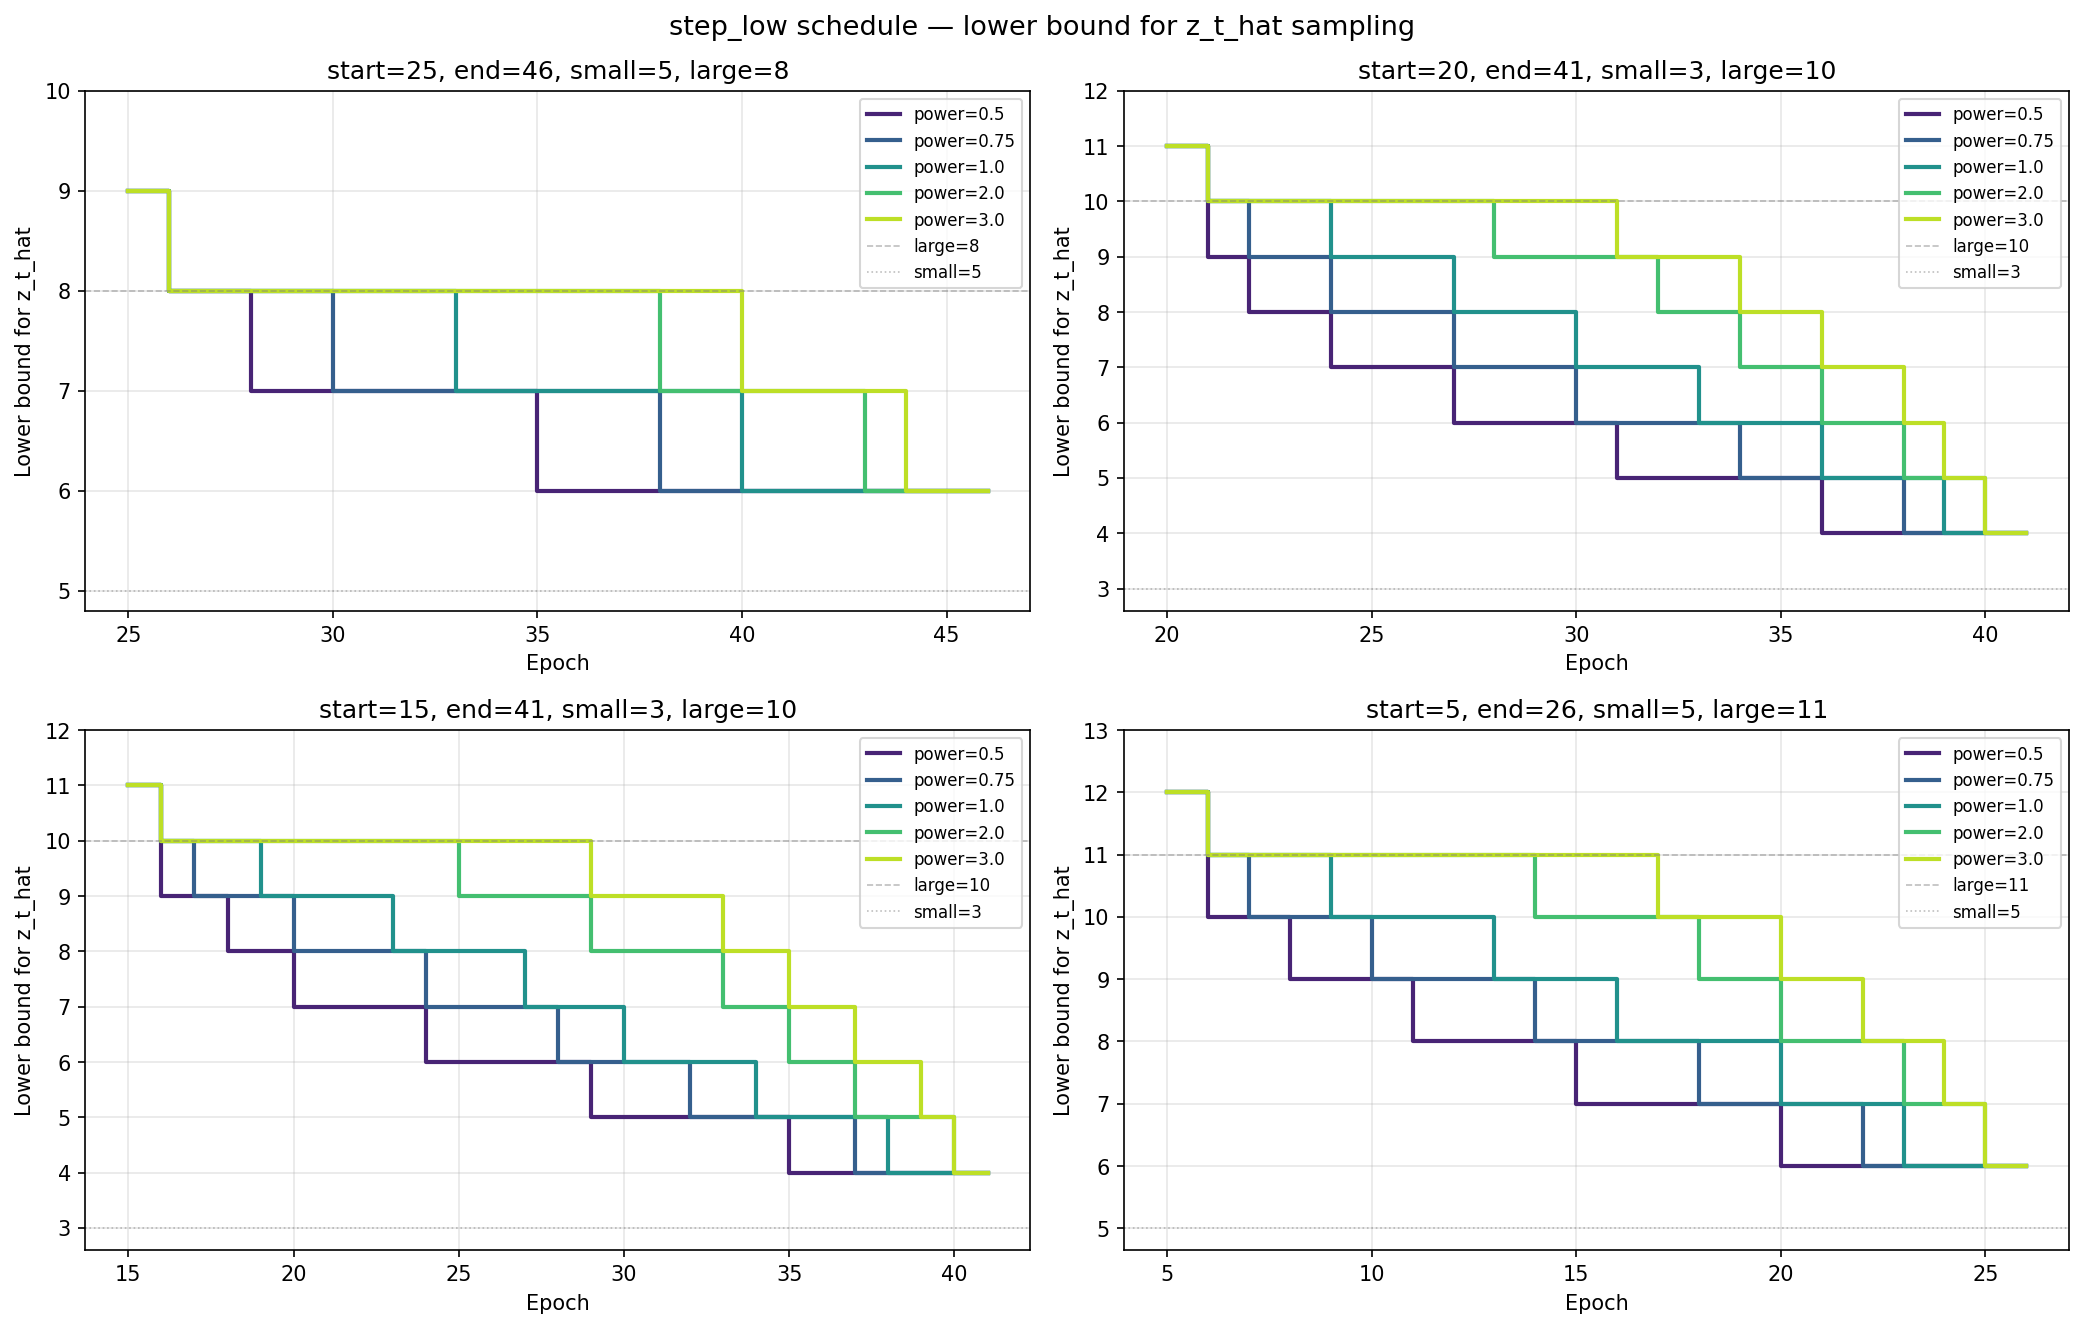
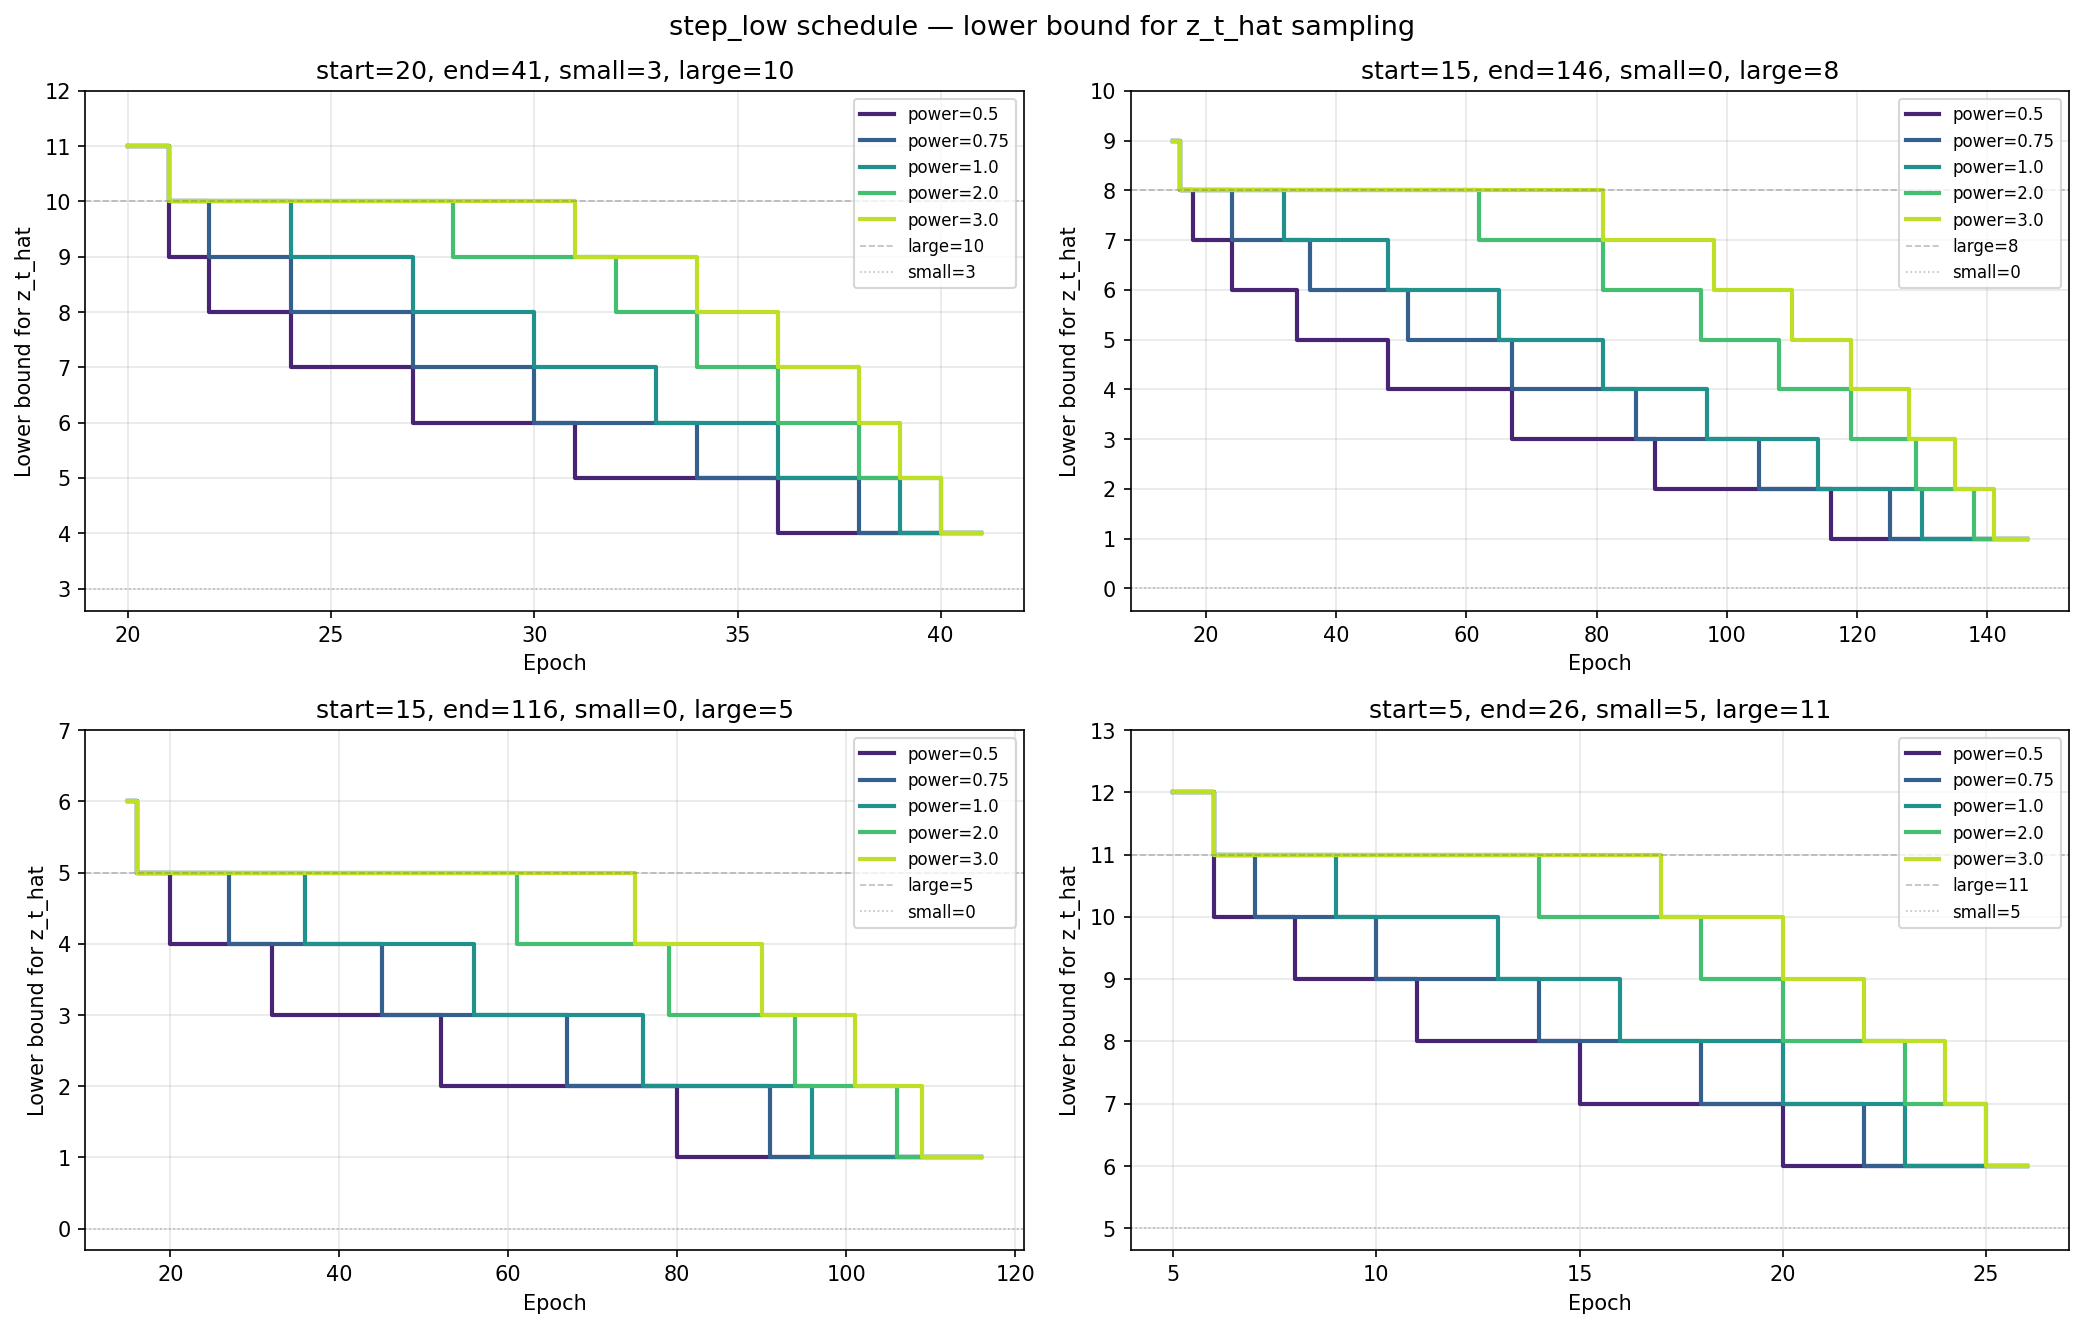
Revert to sampling per batch Allow clamp control during training Raise inference time sampling bound to max(0, int(t)-1)

diff --git a/train_dmd.py b/train_dmd.py
@@ -100,7 +100,7 @@ def train_epoch(args, loader, epoch, mu_real, G, G_ema, G_dp, mu_fake, discrimin
             else :
                 z_t_hat = torch.randint(step_low(args.start_epoch, epoch, 
                                         args.n_epochs, args.step_num_small, 
-                                        args.step_num_large, args.step_num_pow), step_num, (bs_data,))
+                                        args.step_num_large, args.step_num_pow), step_num, (1,)).item()
             
             if args.t_coupling and z_t_hat <= args.step_num_large - 1 :
                 noise_t[noise_t < args.t_coupling_coeff] = args.t_coupling_coeff
@@ -127,7 +127,7 @@ def train_epoch(args, loader, epoch, mu_real, G, G_ema, G_dp, mu_fake, discrimin
             # in one forward pass (z0=z_fake_e_d recovers the noise used by corrupt()).
             L_fake_diffusion = mu_fake.score(noise_t, z_fake_t_d, bs_data, n_data,
                                                    node_mask, edge_mask, context, z_fake_e_d)
-            L_fake_diffusion = soft_clamp(L_fake_diffusion)
+
             logit_D_fake = discriminator._forward(node_mask, edge_mask)     # log D(fake) [B]
 
             # mu_fake forward on real x_t → hook captures real bottleneck features
@@ -139,14 +139,16 @@ def train_epoch(args, loader, epoch, mu_real, G, G_ema, G_dp, mu_fake, discrimin
             L_disc = F.softplus(-logit_D_real).mean() \
                     + F.softplus(logit_D_fake).mean()
             
-            L_disc = soft_clamp(L_disc, 5)
-            L_fake_diffusion = soft_clamp(L_fake_diffusion, 5)
+
+            if args.clamp :
+                L_fake_diffusion = soft_clamp(L_fake_diffusion)
+                L_disc = soft_clamp(L_disc, 5)
 
             L_fake = L_fake_diffusion + gan_coefff * L_disc
 
-            if torch.isnan(L_fake) or torch.isinf(L_fake) or L_fake >= args.skip_bound:
-                print(f'Warning: L_fake is {L_fake.item()}, skipping mu_fake update at iter {i}.')
-                continue
+            # if torch.isnan(L_fake) or torch.isinf(L_fake) or L_fake >= args.skip_bound:
+            #     print(f'Warning: L_fake is {L_fake.item()}, skipping mu_fake update at iter {i}.')
+            #     continue
 
             optim_fake.zero_grad()
             optim_d.zero_grad()

diff --git a/schedule.py b/schedule.py
@@ -34,12 +34,12 @@ def plot_schedule(ax, start_epoch, total_epoch, step_num_small, step_num_large, 
 
 # ── Configurations ────────────────────────────────────────────────────────────
 configs = [
-    dict(start_epoch=25, total_epoch=46, step_num_small=5, step_num_large=8,
-         title='start=25, end=46, small=5, large=8'),
-    dict(start_epoch=20,  total_epoch=41, step_num_small=3, step_num_large=10,
+    dict(start_epoch=20, total_epoch=41, step_num_small=3, step_num_large=10,
          title='start=20, end=41, small=3, large=10'),
-    dict(start_epoch=15, total_epoch=41, step_num_small=3, step_num_large=10,
-         title='start=15, end=41, small=3, large=10'),
+    dict(start_epoch=15,  total_epoch=146, step_num_small=0, step_num_large=8,
+         title='start=15, end=146, small=0, large=8'),
+    dict(start_epoch=15, total_epoch=116, step_num_small=0, step_num_large=5,
+         title='start=15, end=116, small=0, large=5'),
     dict(start_epoch=5,  total_epoch=26, step_num_small=5, step_num_large=11,
          title='start=5, end=26, small=5, large=11'),
 ]

diff --git a/equivariant_diffusion/en_diffusion.py b/equivariant_diffusion/en_diffusion.py
@@ -1331,7 +1331,7 @@ class EnLatentDiffusion(EnVariationalDiffusion):
         step_schedule = torch.arange(self.T, 0.0, - (self.T) / step_num)
         z = 0
         for t in step_schedule:
-            t = int(t) - 1
+            t = max(0, int(t) - 1)
             z = self.one_step_sample_latent(n_samples, n_nodes, node_mask, edge_mask, context, t, z, fix_noise)
         
         x_latent, h_latent = self.sample_p_xh_given_z0(z, node_mask, edge_mask, context, fix_noise)
